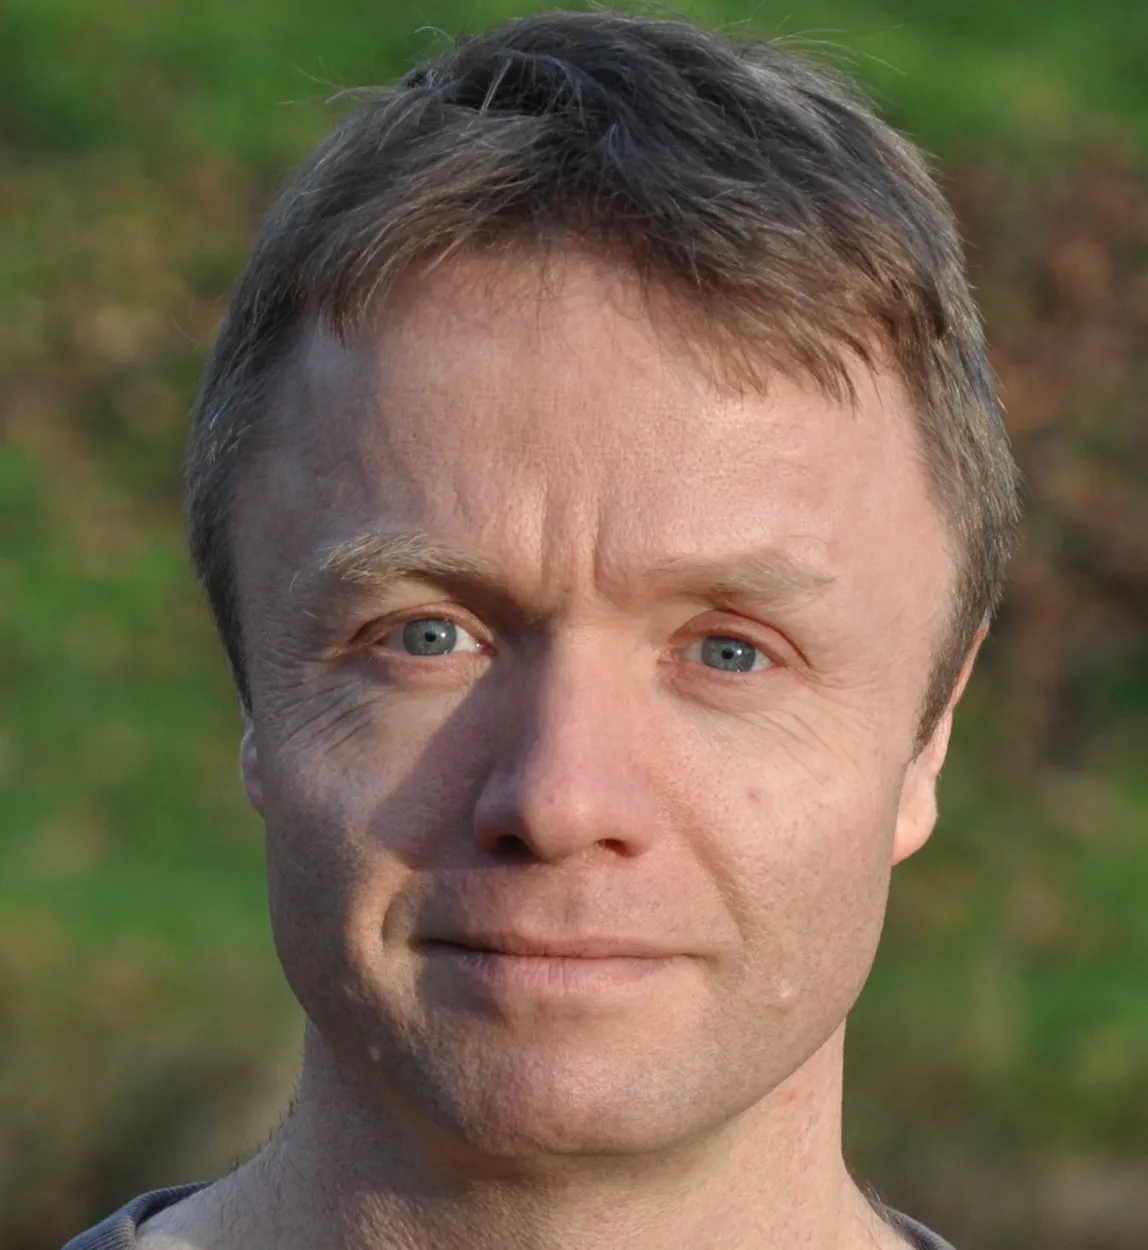
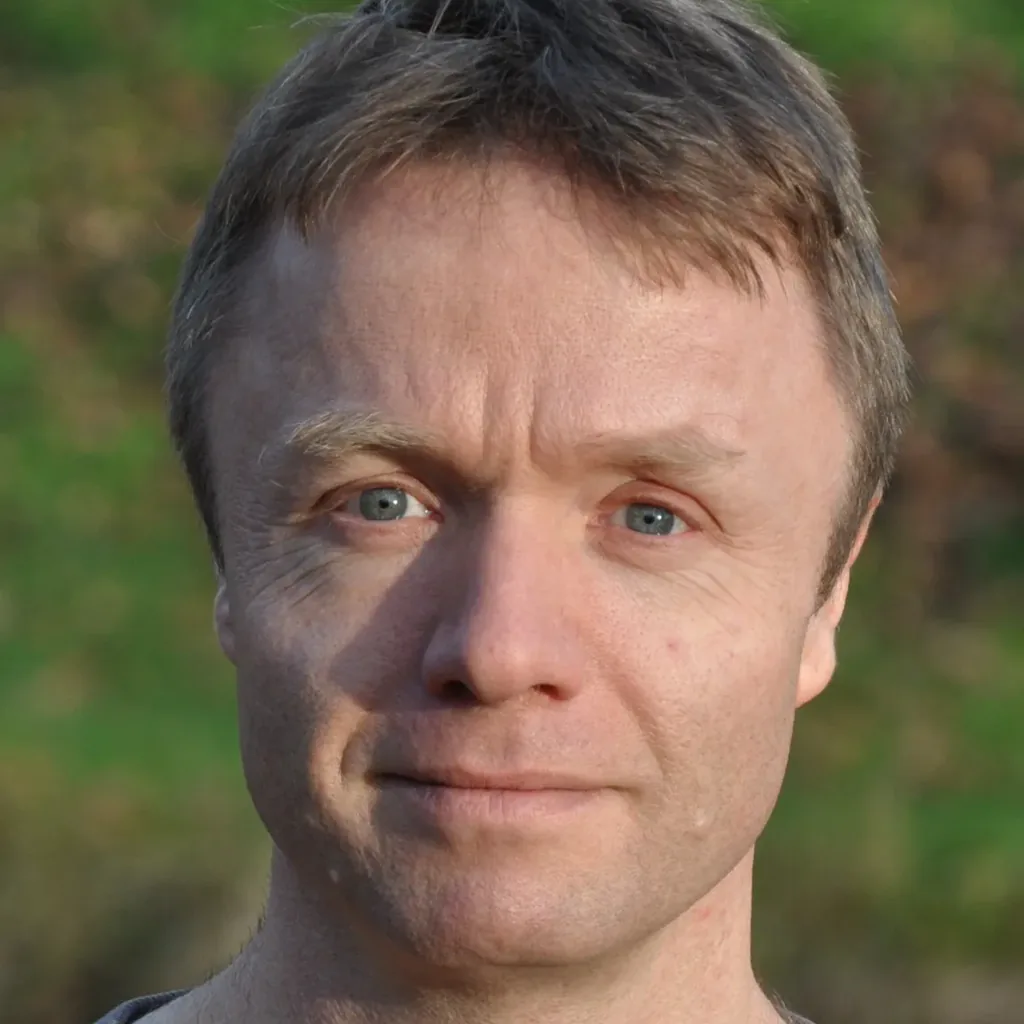
mike-sperber: portrait cropped square, entry active
The upload from #15 cut to 1024 px with --crop 0,72,1148, which keeps the
chin; photo, status, owner and updated set; one German spelling fixed.

diff --git a/src/content/practitioners/mike-sperber/bio.md b/src/content/practitioners/mike-sperber/bio.md
@@ -1,5 +1,6 @@
 ---
 name: Dr. Michael Sperber
+photo: ./photo.webp
 job: { en: "Trainer, Architect", de: "Trainer, Architekt" }
 expertise: { en: "Functional, Architecture, Formal", de: "Funktional, Architektur, Formal" }
 background: { en: Managing Director Active Group, de: Geschäftsführer Active Group }
@@ -45,7 +46,9 @@ public_work: # books, products, talks, articles, podcasts, courses, open source,
   - { kind: podcast, title: Host Haskell Interlude, year: 2024, url: https://haskell.foundation/podcast/ }
   - { kind: article, title: Functional Programming, year: 2014, url: https://funktionale-programmierung.de/ }
   - { kind: book, title: Schreibe Dein Programm!, year: 2024, url: https://deinprogramm.de/sdp/}
-
+status: active
+owner: Dr. Michael Sperber
+updated: "2026-11-11"
 ---
 
 Mike is managing director of Active Group.  He is an internationally

diff --git a/src/content/practitioners/mike-sperber/bio.de.md b/src/content/practitioners/mike-sperber/bio.de.md
@@ -1,5 +1,5 @@
 Mike ist Geschäftsführer der Active Group GmbH. Er ist international
-annerkannter Experte für funktionale Programmierung und
+anerkannter Experte für funktionale Programmierung und
 Softwarearchitektur.  Mike ist außerdem akkreditierter iSAQB-Trainer
 und Kurator für die iSAQB-Curricula FUNAR, DSL and FM, and Mitglied im
 Strategie-Council des iSAQB.
